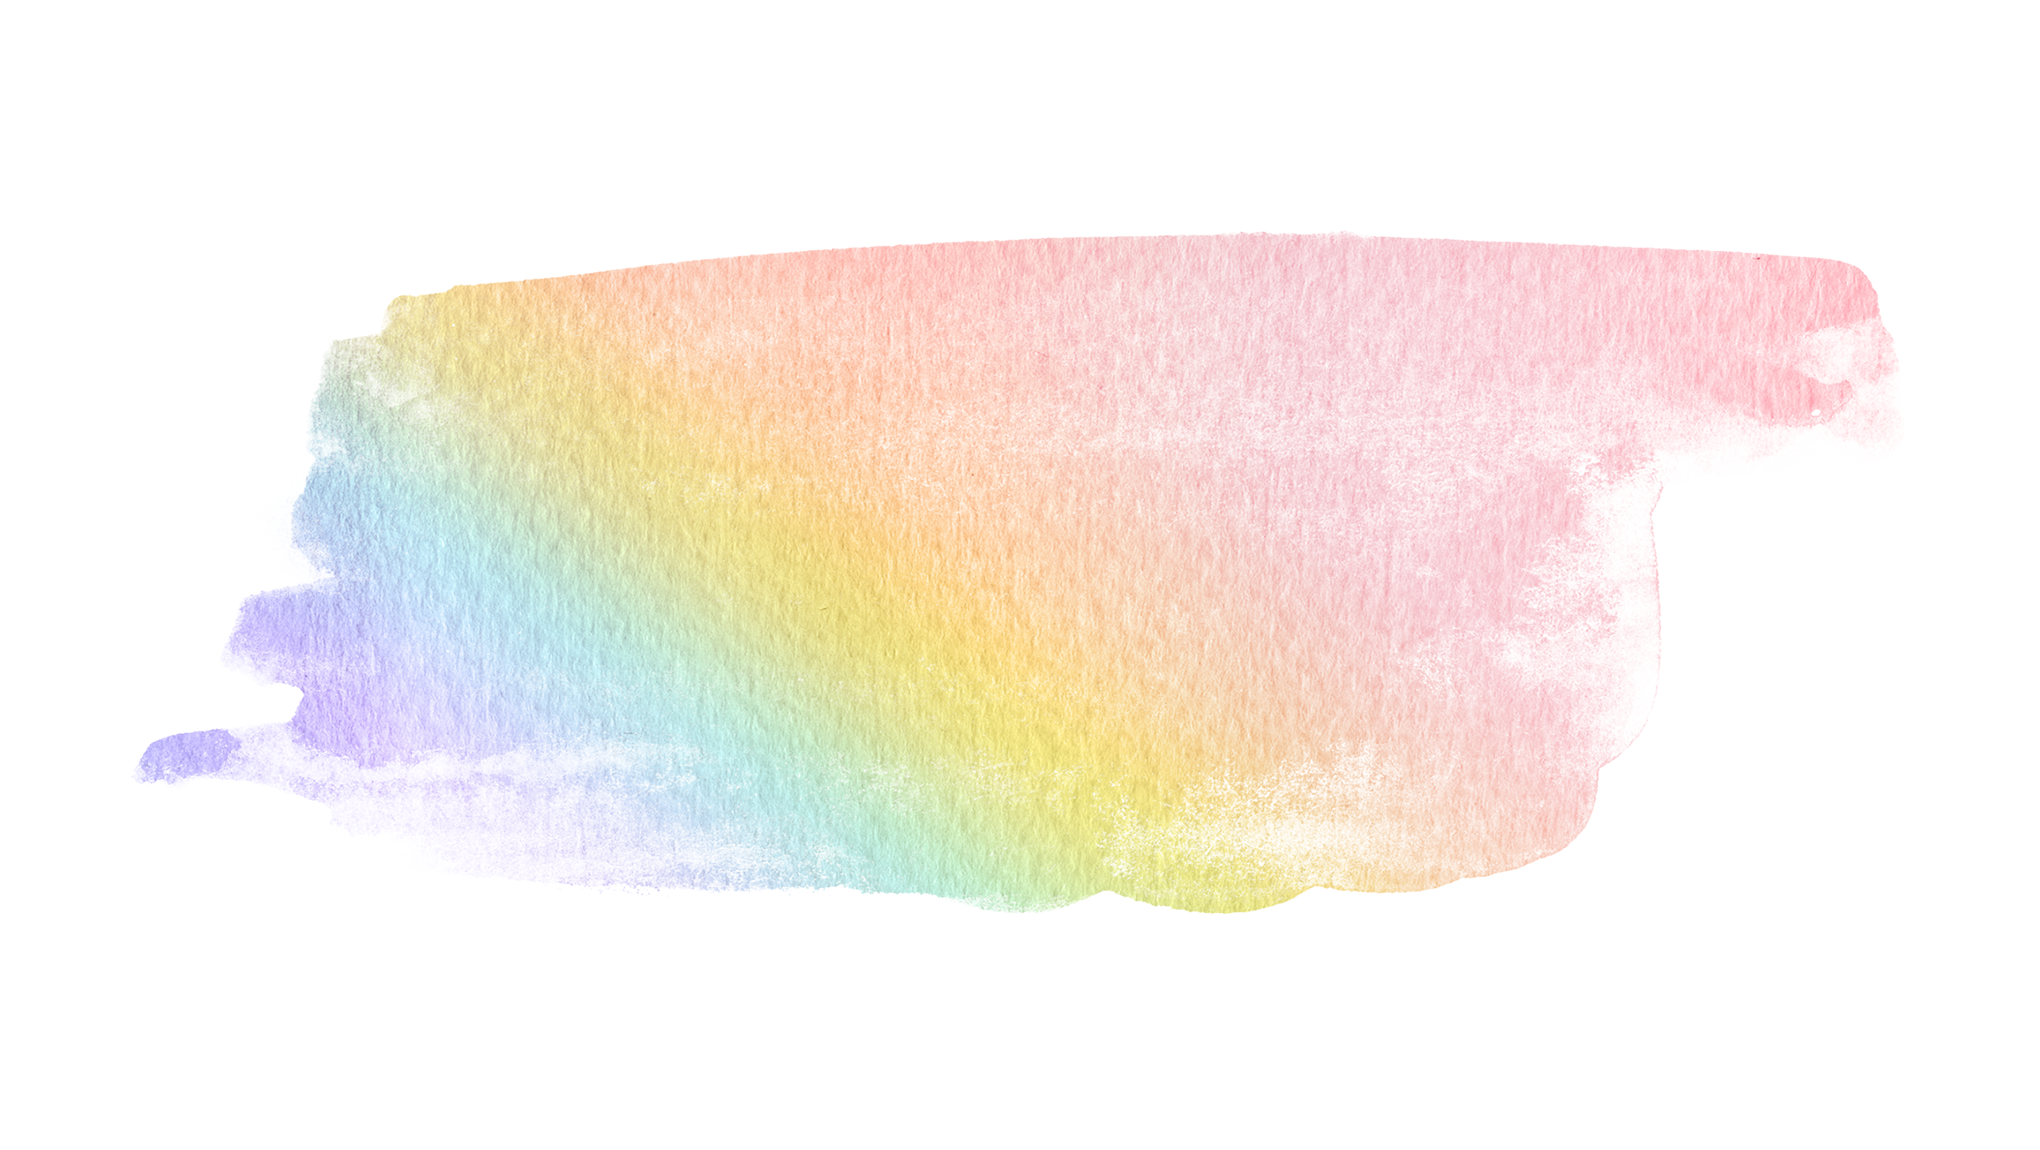
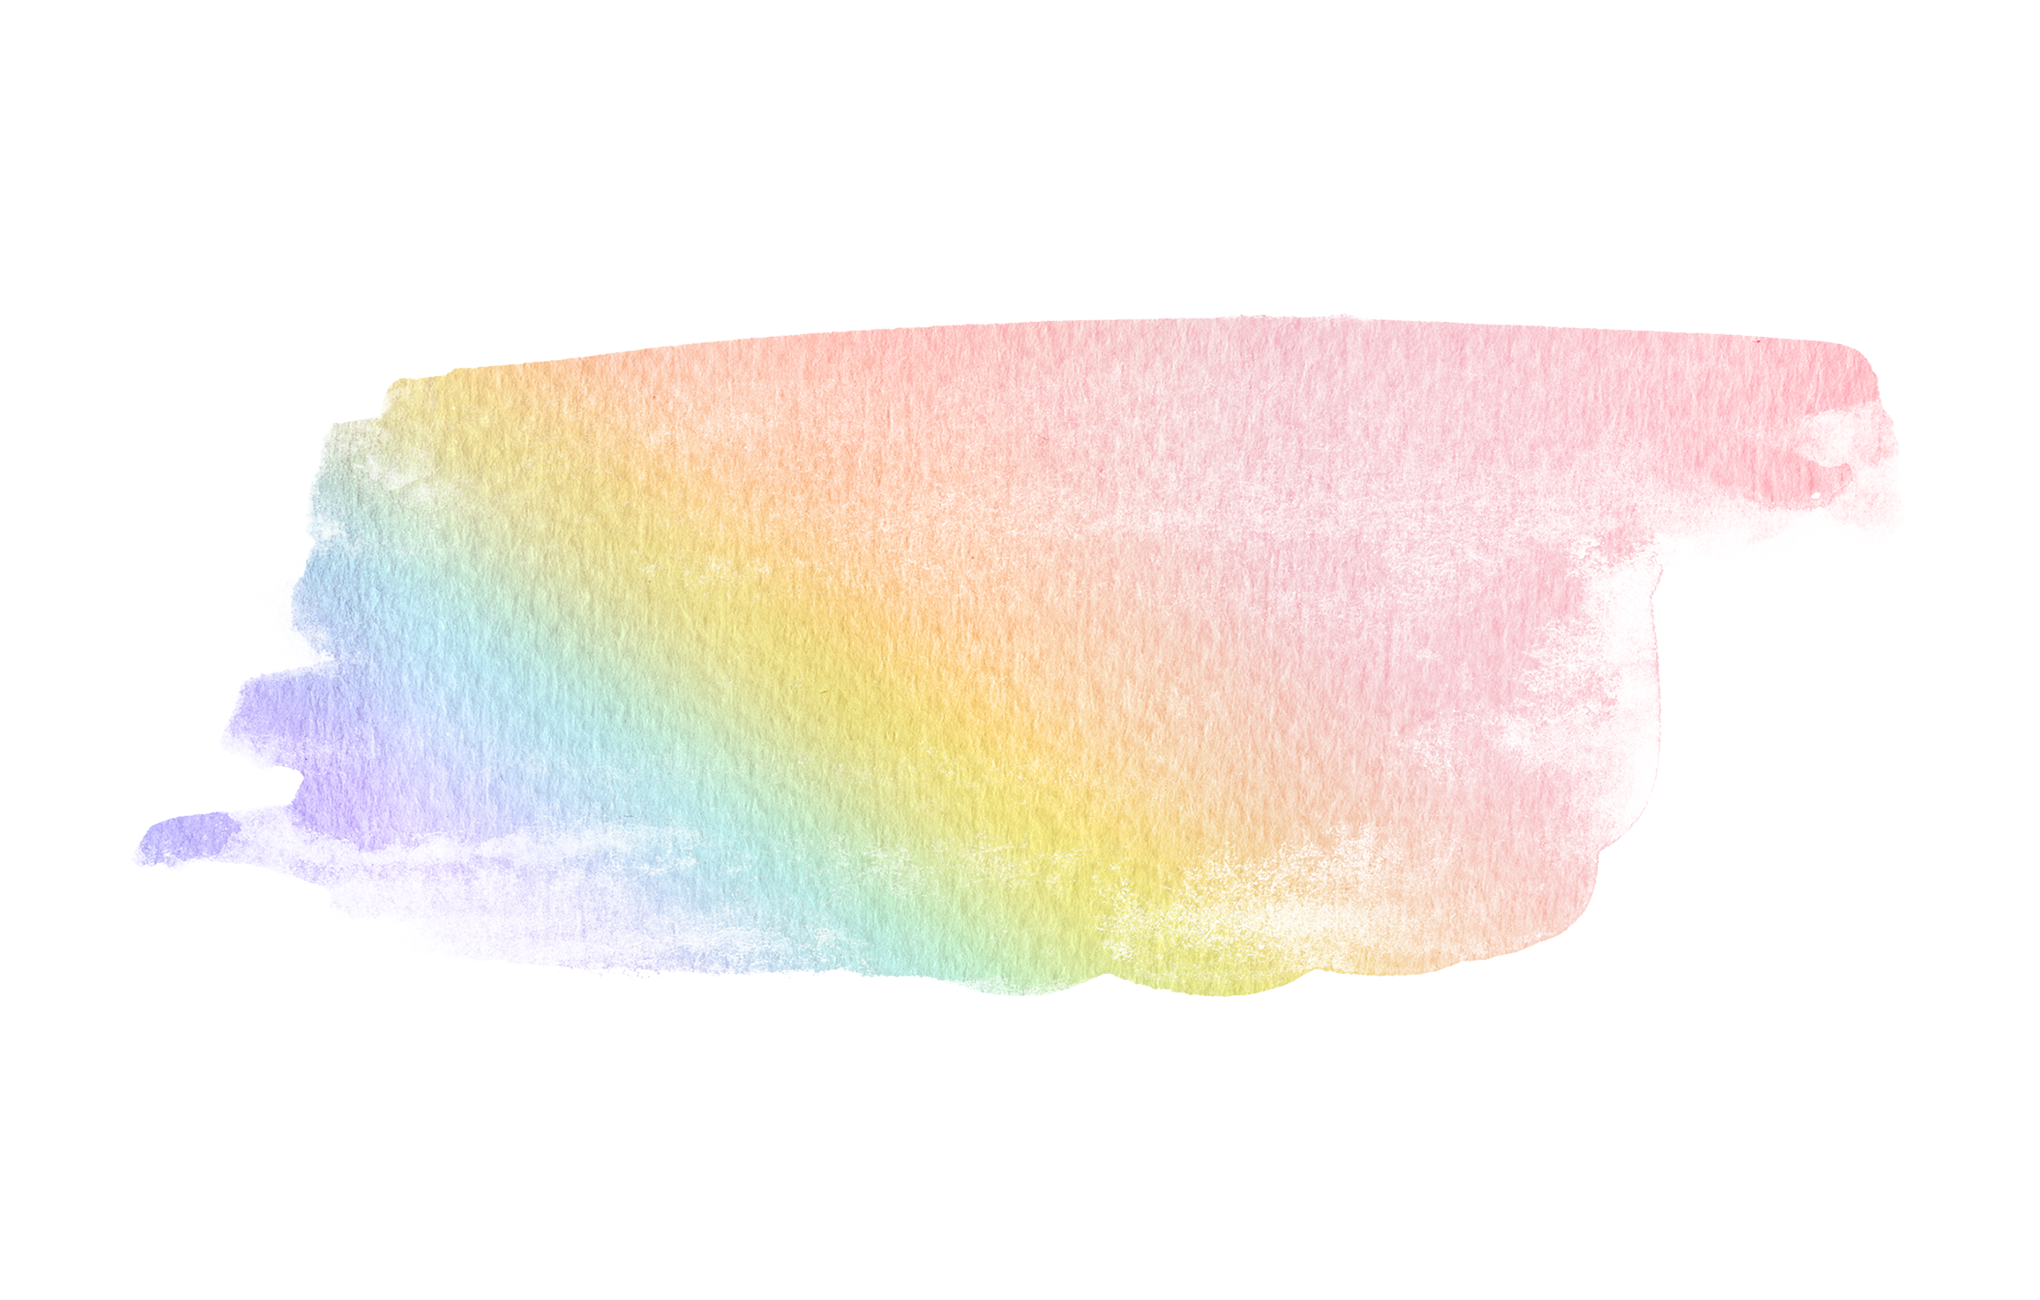
updated colors

Changed region(s): [[0.1235, 0.1826, 0.9265, 0.5478], [0.0618, 0.5783, 0.8029, 0.7913], [0.7412, 0.4565, 0.7721, 0.5478]]

diff --git a/doodles/doodle-03/index.js b/doodles/doodle-03/index.js
@@ -22,7 +22,8 @@ const chart = data => {
   const graph = sankey(data);
   const color = d3.scaleOrdinal()
     .domain(graph.nodes.map(d => d.name))
-    .range(['#F186BF','#B2F6F0','#F6B09D','#FFEEE2','#F6F39F','#FCFADE','#B3EE9A','#E2FCE6','#B2B7F6','#E3E3FF','#FFDBDB','#DFF2FD']);
+    .range(['#F186BF','#B2F6F0','#F6B09D','#F6F39F','#B3EE9A','#B2B7F6',
+            '#fff0f5','#ffd3b6','#fff8d2','#e0ece4','#dff5f2','#fbeeff']);
   const node = svg.append('g')
     .selectAll('rect')
     .data(graph.nodes)

diff --git a/style.css b/style.css
@@ -6,7 +6,6 @@
 }
 
 /* https://www.schemecolor.com/unicorn-bliss.php */
-/* https://www.schemecolor.com/very-light-rainbow.php */
 
 a {
   color: #000000;
@@ -117,7 +116,7 @@ pre {
   display: block;
   height: 120px; 
   margin: auto;
-  opacity: 0.4;
+  opacity: 0.5;
   position: relative;
 }
 

diff --git a/links/style.css b/links/style.css
@@ -9,7 +9,7 @@
 }
 
 .title {
-  background: linear-gradient(to right, #FFDBDB 0%, #FFEEE2 20%, #FCFADE 40%, #E2FCE6 60%, #DFF2FD 80%, #E3E3FF 100%);
+  background: #f5f5f5;
   height: 30px;
   line-height: 30px;
   padding-left: 10px;

diff --git a/doodles/doodle-02/style.css b/doodles/doodle-02/style.css
@@ -6,7 +6,7 @@
 }
 
 .bar {
-  fill: #E3E3FF;
+  fill: #fff0f5;
   shape-rendering: crispEdges;
 }
 
